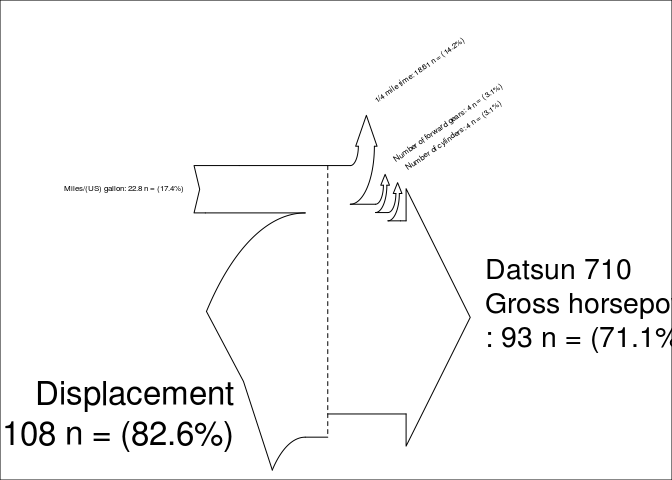
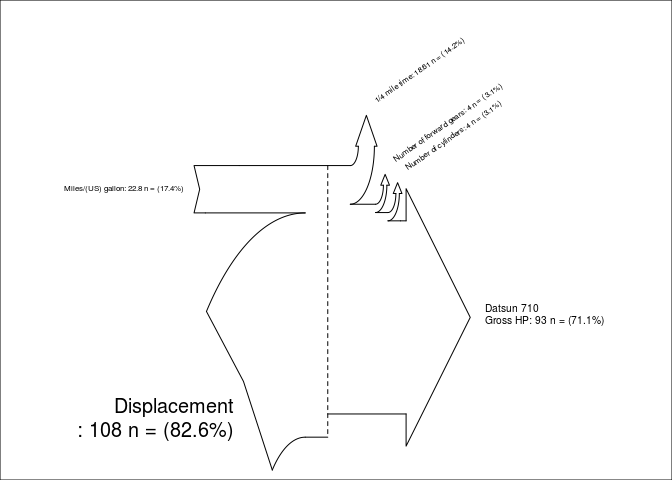
sankey diagram Pnw y cambios al rmd

Changed region(s): [[0.0, 0.7812, 0.3438, 0.9375], [0.7188, 0.5312, 1.0, 0.75]]

diff --git a/display-patterns/Flows/A51-Sankey_DiagramR.md b/display-patterns/Flows/A51-Sankey_DiagramR.md
@@ -41,7 +41,6 @@ Code example
 
     source('Sankey.R')
 
-    # My example (there is another example inside Sankey.R):
     mpg=mtcars["Datsun 710",1]
     hp=mtcars["Datsun 710",4]
     cyl=mtcars["Datsun 710",2]
@@ -58,13 +57,14 @@ Code example
                "1/4 mile time",
                "Number of forward gears",
                "Number of cylinders",
-               "Datsun 710\nGross horsepower\n")
+               "Datsun 710\nGross HP")
 
     SankeyR(inputs,losses,unit,labels)
 
-![](A51-Sankey_Diagram_files/figure-markdown_strict/unnamed-chunk-2-1.png)
+![](A51-Sankey_Diagram_files/figure-markdown_strict/unnamed-chunk-2-1.png)<!-- -->
 
-
+    # Clean up my mess
+    rm("inputs", "labels", "losses", "SankeyR", "unit")
 
 ### Code Example With GoogleVis
 
@@ -72,24 +72,6 @@ In this example, a package called GoogleVis google for R is used, this
 package generates Web graphics can also be used in desktop applications.
 
     require(googleVis)
-
-    ## Loading required package: googleVis
-
-    ## 
-    ## Welcome to googleVis version 0.5.10
-    ## 
-    ## Please read the Google API Terms of Use
-    ## before you start using the package:
-    ## https://developers.google.com/terms/
-    ## 
-    ## Note, the plot method of googleVis will by default use
-    ## the standard browser to display its output.
-    ## 
-    ## See the googleVis package vignettes for more details,
-    ## or visit http://github.com/mages/googleVis.
-    ## 
-    ## To suppress this message use:
-    ## suppressPackageStartupMessages(library(googleVis))
 
     mpg=mtcars["Datsun 710",1]
     hp=mtcars["Datsun 710",4]
@@ -103,7 +85,7 @@ package generates Web graphics can also be used in desktop applications.
                                  "Number of forward gears",
                                  "Number of cylinders",
                                  "Datsun 710 Gross horsepower"))),
-                      Weight=c(mpg,gear,0,0,0,0,cyl,hp))
+                      Weight=c(mpg,gear,cyl,hp))
 
     sk1 <- gvisSankey(dat, from="From", to="To", weight="Weight")
     plot(sk1)
